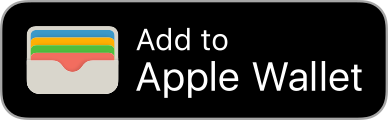
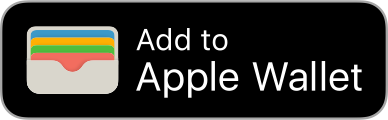
fix(render-gate): the iOS card now passes the render gate against the React /my-id overlay (0.171% of pixels differ, limit 0.2%; was a black native render from a passing test). Harness: RenderGateTests drew with UIWindow.drawHierarchy, which draws nothing in a hostless package test (all-black PNG, t
Parity: same change in randalls-rewards-app ios/LoyaltyCard (healer:4b3d7c53)

diff --git a/ios/LoyaltyCard/Tests/LoyaltyCardTests/RenderGateTests.swift b/ios/LoyaltyCard/Tests/LoyaltyCardTests/RenderGateTests.swift
@@ -7,6 +7,7 @@ import UIKit
 /// Playwright WebKit at the same size and density). Writes a PNG only when the gate passes CARD_FIXTURE and CARD_RENDER_OUT
 /// (xcodebuild test: TEST_RUNNER_CARD_FIXTURE / TEST_RUNNER_CARD_RENDER_OUT); a plain test run skips it.
 final class RenderGateTests: XCTestCase {
+    @MainActor
     func testRendersTheCard() throws {
         let env = ProcessInfo.processInfo.environment
         guard let fixture = env["CARD_FIXTURE"], let out = env["CARD_RENDER_OUT"] else { throw XCTSkip("render gate only") }
@@ -14,28 +15,44 @@ final class RenderGateTests: XCTestCase {
         let card = try XCTUnwrap(CardSnapshot.fromCardPayload(raw, sessionToken: "render-gate-fixture-token", now: 0, defaultPrefix: ""))
         let width = Double(env["RENDER_W"] ?? "402") ?? 402, height = Double(env["RENDER_H"] ?? "874") ?? 874
         let scale = Double(env["RENDER_SCALE"] ?? "3") ?? 3
-        try renderGatePNG(BalfourMemberCard(card: card, offline: false, onClose: {}, onAddToAppleWallet: {}),
+        try renderGatePNG(BalfourMemberCard(card: card, offline: false, onClose: {}, onAddToAppleWallet: {}).environment(\.cardStaticRender, true),
                           width: width, height: height, scale: scale, to: out)
     }
 }
 
-/// Lays the view out in a window with no safe area (as the reference page has none) and snapshots it after it settles.
+/// Renders the view at the page's size and density with SwiftUI's ImageRenderer into an 8-bit sRGB bitmap (the reference
+/// PNG's format), with no safe area (the reference page has none). Not UIWindow.drawHierarchy: a package test has no host
+/// app or window scene, so drawHierarchy drew nothing and a "passing" test gave the gate an all-black PNG. Not
+/// renderer.uiImage either: with the Randalls card's shadows it came back in a format pngData() cannot encode
+/// (RENDER-GATE-IOS-BLANK-2026-10-23, healer:4b3d7c53). The cards have no UIKit-backed views except the scroller, which
+/// the gate swaps for CardScroll's static layout. A render of a single colour fails here, never in the diff.
+@MainActor
 func renderGatePNG<V: View>(_ view: V, width: Double, height: Double, scale: Double, to path: String) throws {
-    let frame = CGRect(x: 0, y: 0, width: width, height: height)
-    let window = UIWindow(frame: frame)
-    let host = UIHostingController(rootView: view.ignoresSafeArea())
-    host.view.frame = frame
-    window.rootViewController = host
-    window.isHidden = false
-    host.view.setNeedsLayout()
-    host.view.layoutIfNeeded()
-    RunLoop.main.run(until: Date().addingTimeInterval(1.5))
-    let format = UIGraphicsImageRendererFormat()
-    format.scale = scale
-    format.opaque = true
-    let image = UIGraphicsImageRenderer(bounds: frame, format: format).image { _ in
-        _ = host.view.drawHierarchy(in: frame, afterScreenUpdates: true)
+    // displayScale must be the device's 3: the QR and text snap to device pixels through it (render()'s own default
+    // rasterization scale is 1, which put every edge on a 1x grid).
+    let renderer = ImageRenderer(content: view.frame(width: width, height: height).ignoresSafeArea()
+        .environment(\.displayScale, scale))
+    renderer.proposedSize = ProposedViewSize(width: width, height: height)
+    renderer.scale = scale
+    let w = Int((width * scale).rounded()), h = Int((height * scale).rounded()), rowBytes = w * 4
+    var px = [UInt8](repeating: 0, count: rowBytes * h)
+    let ctx = try XCTUnwrap(CGContext(data: &px, width: w, height: h, bitsPerComponent: 8, bytesPerRow: rowBytes,
+                                      space: try XCTUnwrap(CGColorSpace(name: CGColorSpace.sRGB)),
+                                      bitmapInfo: CGImageAlphaInfo.premultipliedLast.rawValue))
+    ctx.setFillColor(CGColor(srgbRed: 0, green: 0, blue: 0, alpha: 1))
+    ctx.fill(CGRect(x: 0, y: 0, width: w, height: h))
+    ctx.scaleBy(x: scale, y: scale)
+    renderer.render(rasterizationScale: scale) { _, draw in draw(ctx) }
+    let cg = try XCTUnwrap(ctx.makeImage())
+    // Written before the check so a failing render still comes back to the gate for a look.
+    try XCTUnwrap(UIImage(cgImage: cg).pngData()).write(to: URL(fileURLWithPath: path))
+    let first = px[0..<4]
+    var uniform = true
+    for y in stride(from: 0, to: h, by: 7) where uniform {
+        for x in stride(from: 0, to: w, by: 7) {
+            let o = y * rowBytes + x * 4
+            if px[o..<(o + 4)] != first { uniform = false; break }
+        }
     }
-    let data = try XCTUnwrap(image.pngData())
-    try data.write(to: URL(fileURLWithPath: path))
+    XCTAssertFalse(uniform, "the native render is a single colour: nothing was drawn")
 }

diff --git a/ios/LoyaltyCard/Sources/LoyaltyCard/BalfourMemberCard.swift b/ios/LoyaltyCard/Sources/LoyaltyCard/BalfourMemberCard.swift
@@ -54,7 +54,7 @@ public struct BalfourMemberCard: View {
                     header(safeTop: safeTop)
                     // flex-1 items-center justify-center overflow-y-auto; content is max-w-sm px-6 py-24 gap-6.
                     GeometryReader { area in
-                        ScrollView(.vertical, showsIndicators: false) {
+                        CardScroll {
                             content(width: min(384, w))
                                 .frame(width: w)
                                 .frame(minHeight: area.size.height)
@@ -73,7 +73,9 @@ public struct BalfourMemberCard: View {
             Color.clear.frame(width: 44, height: 44)
             Spacer(minLength: 0)
             if let logo = cardImage("bf-logo") {
-                // h-12 w-auto brightness-0 invert: the logo drawn white.
+                // h-12 w-auto brightness-0 invert: the logo drawn white. bf-logo.png is that img as iOS WebKit paints it on
+                // the page (226x144 device px, the box it snaps to), so it is drawn 1:1, never resampled here
+                // (RENDER-GATE-WEBKIT-RASTERS-2026-10-23, healer:4b3d7c53).
                 Image(uiImage: logo).renderingMode(.template).resizable().foregroundColor(.white)
                     .frame(width: 48 * logo.size.width / logo.size.height, height: 48)
                     .accessibilityLabel("Balfour Winery")
@@ -96,6 +98,8 @@ public struct BalfourMemberCard: View {
             }
             // WalletButtons on iOS: the Apple Wallet badge only, h-10, in an overflow-hidden rounded-lg button.
             if let badge = cardImage("bf-apple-wallet") {
+                // bf-apple-wallet.png is the page's add-to-apple-wallet.svg as iOS WebKit paints it at h-10 (388x120 device px),
+                // drawn 1:1 (RENDER-GATE-WEBKIT-RASTERS-2026-10-23, healer:4b3d7c53).
                 Image(uiImage: badge).resizable()
                     .frame(width: 40 * badge.size.width / badge.size.height, height: 40)
                     .clipShape(RoundedRectangle(cornerRadius: 8, style: .circular))
@@ -163,19 +167,23 @@ struct QrModules: View {
         Canvas { ctx, size in
             let n = qr.size
             let m = size.width / CGFloat(n)
-            let snap = { (v: CGFloat) in (v * scale).rounded() / scale }
+            // WebKit's crispEdges fills every device pixel a dark module touches: a run starts at the floor of its edge and
+            // ends at the ceiling (fitted on every module edge of the gate's WebKit reference: 3014/3014 x, 2980/2980 y;
+            // round-to-nearest matched only ~64%) (RENDER-GATE-QR-SNAP-2026-10-23, healer:4b3d7c53).
+            let start = { (v: CGFloat) in (v * scale + 1e-6).rounded(.down) / scale }
+            let end = { (v: CGFloat) in (v * scale - 1e-6).rounded(.up) / scale }
             ctx.fill(Path(CGRect(origin: .zero, size: size)), with: .color(.white))
             var path = Path()
             for y in 0..<n {
-                let top = snap(CGFloat(y) * m), bottom = snap(CGFloat(y + 1) * m)
+                let top = start(CGFloat(y) * m), bottom = end(CGFloat(y + 1) * m)
                 var x = 0
                 while x < n {
                     if !qr.isDark(x, y) { x += 1; continue }
-                    var end = x
-                    while end < n && qr.isDark(end, y) { end += 1 }
-                    let left = snap(CGFloat(x) * m), right = snap(CGFloat(end) * m)
+                    var run = x
+                    while run < n && qr.isDark(run, y) { run += 1 }
+                    let left = start(CGFloat(x) * m), right = end(CGFloat(run) * m)
                     path.addRect(CGRect(x: left, y: top, width: right - left, height: bottom - top))
-                    x = end
+                    x = run
                 }
             }
             ctx.fill(path, with: .color(ink))

diff --git a/ios/LoyaltyCard/Sources/LoyaltyCard/CardScroll.swift b/ios/LoyaltyCard/Sources/LoyaltyCard/CardScroll.swift
@@ -1,0 +1,32 @@
+import SwiftUI
+
+/// True only in the render gate's test (RenderGateTests): the card is drawn with SwiftUI's ImageRenderer there, which
+/// cannot draw a ScrollView (UIKit-backed), so the scroller's content came out missing (RENDER-GATE-IOS-BLANK-2026-10-23,
+/// healer:4b3d7c53). Never set in the app.
+struct CardStaticRenderKey: EnvironmentKey { static let defaultValue = false }
+
+extension EnvironmentValues {
+    var cardStaticRender: Bool {
+        get { self[CardStaticRenderKey.self] }
+        set { self[CardStaticRenderKey.self] = newValue }
+    }
+}
+
+/// The card's vertical scroller (the page's overflow-y-auto). For the render gate the same content is laid out the way
+/// ScrollView lays it out (width proposed, height unbounded, pinned to the top) in a plain container, so the two are the
+/// same picture whenever the content fits the screen, which it does at the gate's size.
+struct CardScroll<Content: View>: View {
+    @Environment(\.cardStaticRender) private var staticRender
+    @ViewBuilder let content: Content
+
+    var body: some View {
+        if staticRender {
+            content
+                .fixedSize(horizontal: false, vertical: true)
+                .frame(maxWidth: .infinity, maxHeight: .infinity, alignment: .top)
+                .clipped()
+        } else {
+            ScrollView(.vertical, showsIndicators: false) { content }
+        }
+    }
+}

diff --git a/AGENTS.md b/AGENTS.md
@@ -35,6 +35,14 @@ copies identical apart from `render-gate.sh`'s site, token key and element table
   (cleartext for 127.0.0.1 in debug builds only). iOS `ios/LoyaltyCard` `RenderGateTests` on a fresh iPhone 17 / iOS 27
   simulator via `ios-native.sh`. Robolectric (`BalfourCardRenderTest`, `RenderGateScreensTest`) is a quick geometry check
   only: it skips variable-font axes.
+- **iOS native render (found by running it, 2026-10-23):** a package test has no window scene, so `drawHierarchy`
+  draws nothing; `RenderGateTests` draws through `ImageRenderer.render` into its own 8-bit sRGB bitmap and fails a
+  single-colour render. ImageRenderer cannot draw a `ScrollView`, so the card's scroller is `CardScroll`, laid out
+  statically (same geometry) only when the test sets `\.cardStaticRender`. Never put an explicit `.top` alignment
+  guide inside a card element: frames forward it and the parent ZStack aligns by it.
+- **Match WebKit, do not approximate it:** QR modules follow WebKit's `crispEdges` (a dark run from the floor of its
+  edge to the ceiling, fitted on every module edge of the reference). Rasters the page paints from an SVG or rescales
+  (wallet badge; Balfour logo) ship as WebKit's own paint at the exact device-pixel box and are drawn 1:1.
 - **Diff:** `diff.mjs`, full colour, per pixel, channel delta > 16/255, fail above 0.2% of pixels, diff PNG on failure.
   No baselines, no recorded gaps. Never loosen it to pass a real divergence; a harness-caused failure is fixed in the harness.
 - **Fixtures:** recorded from a synthetic member (`create_test_loyalty_session` with `tenant=balfour`; PATCH
